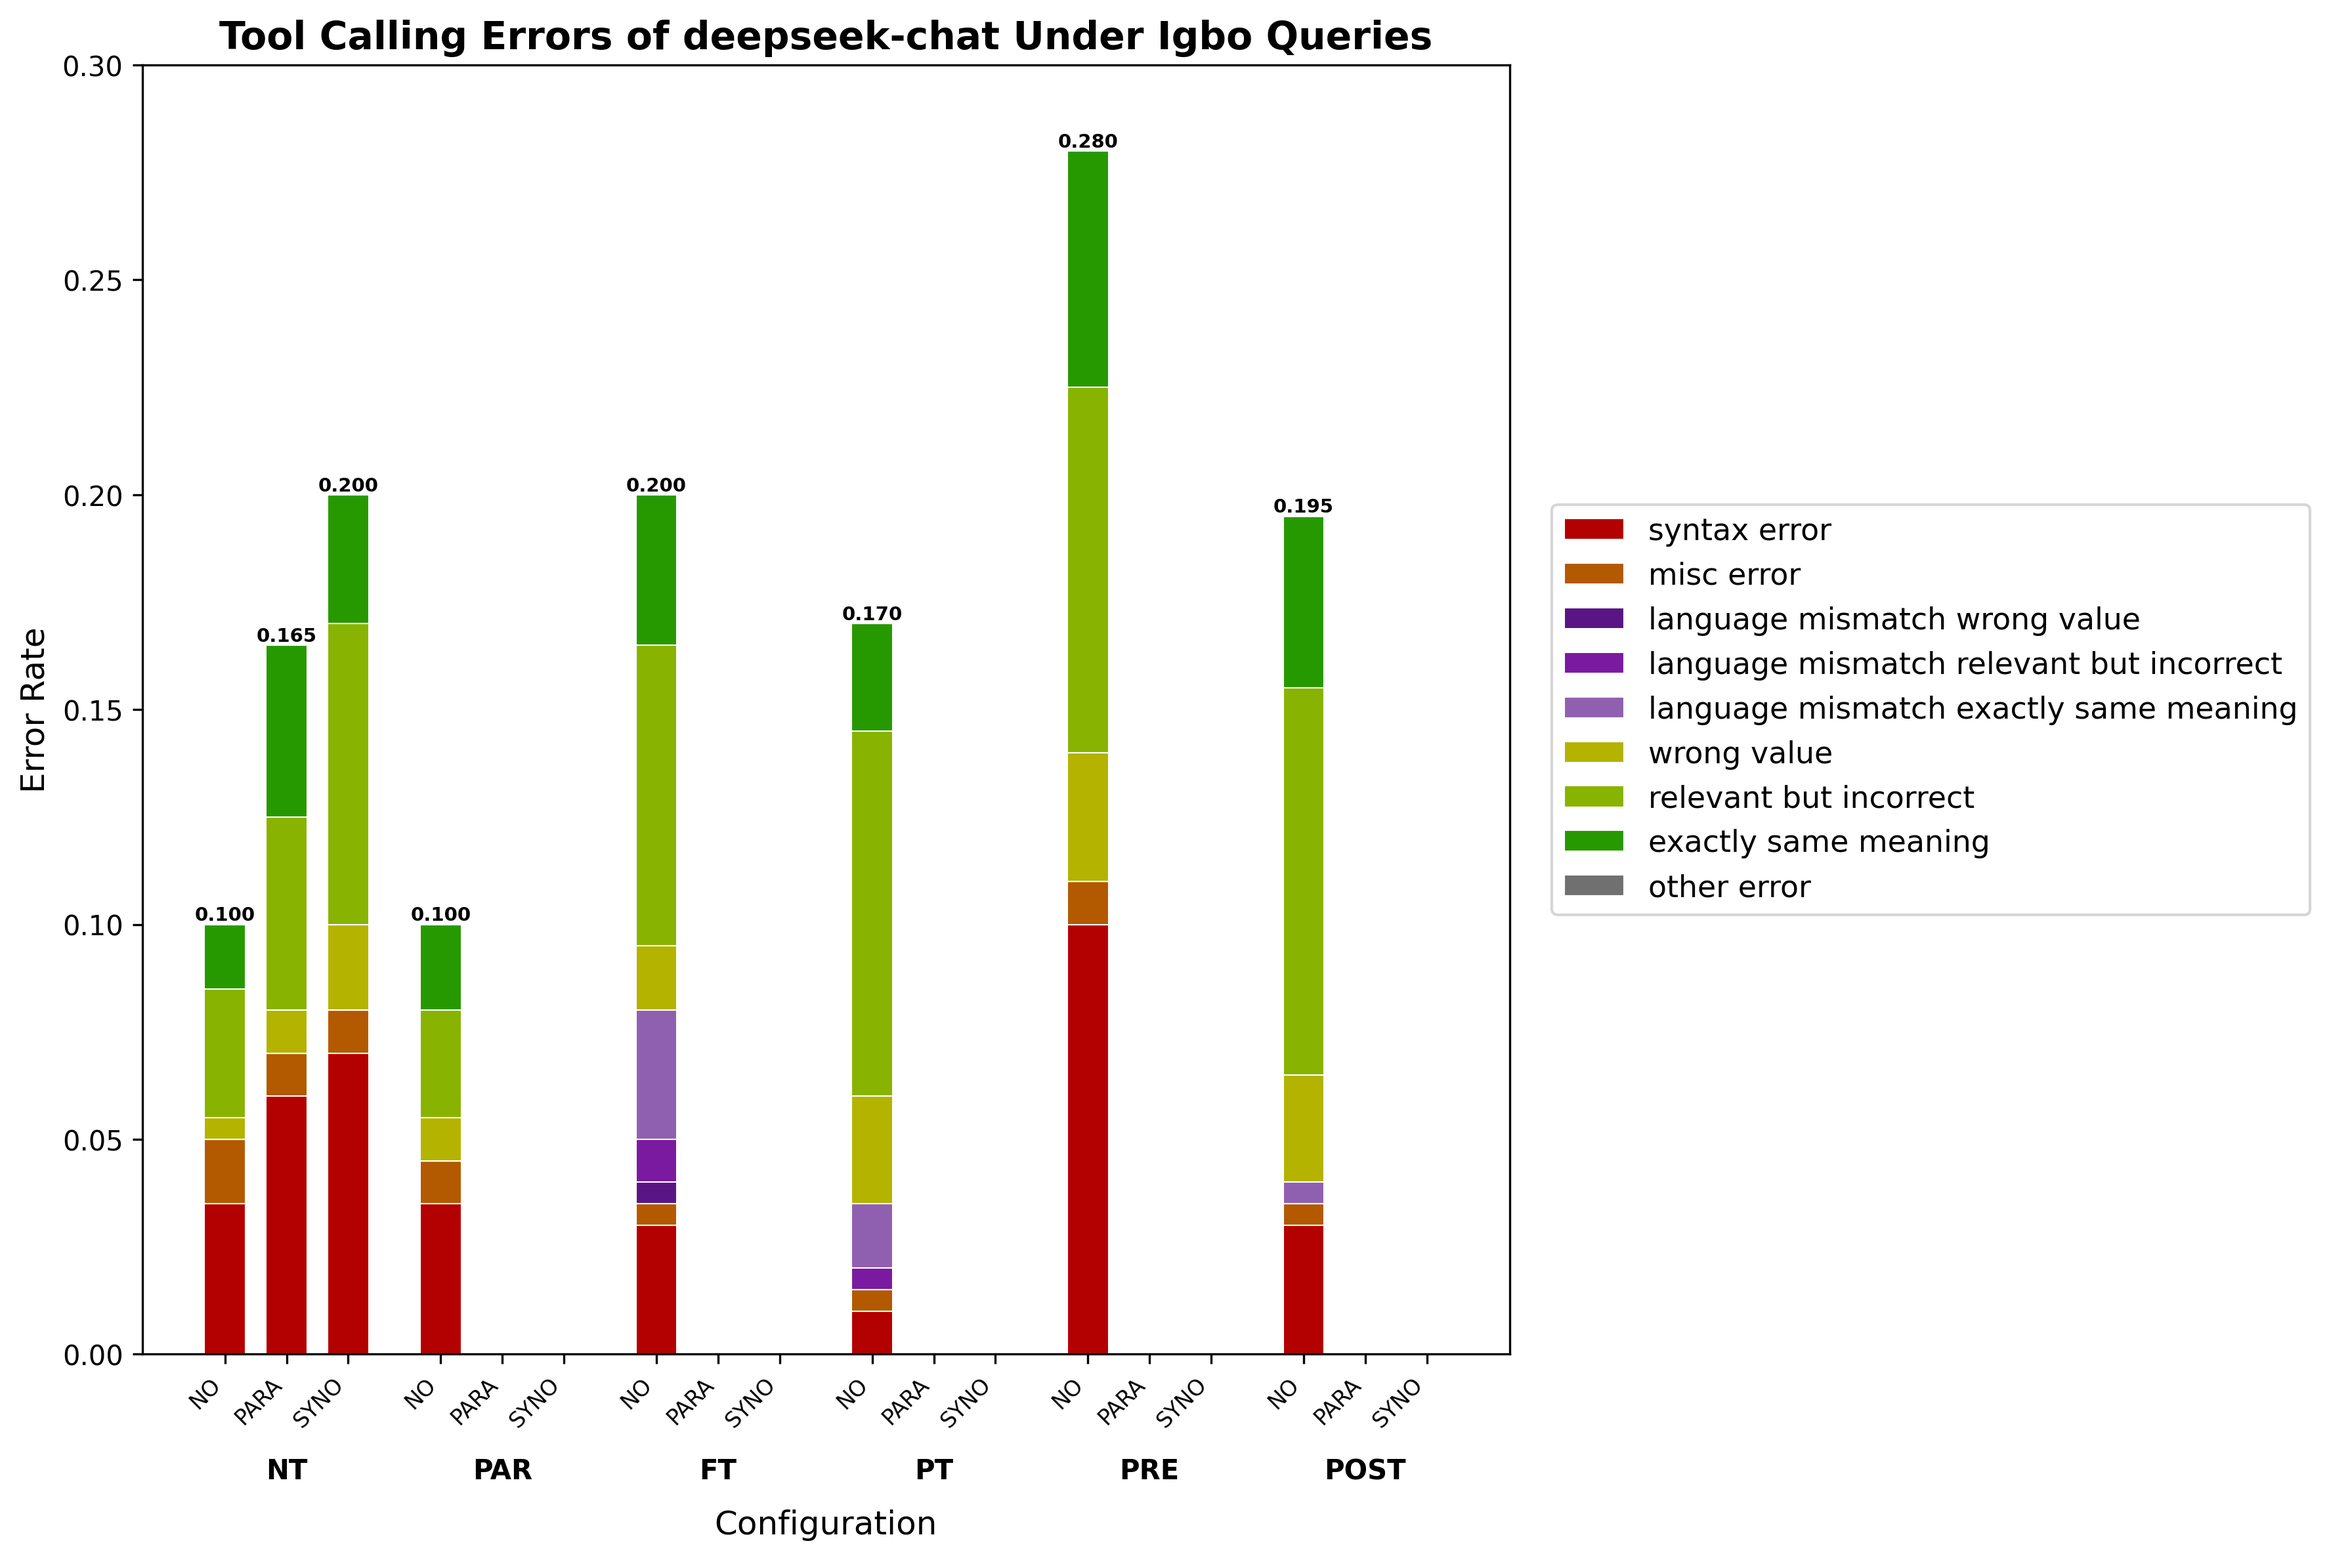
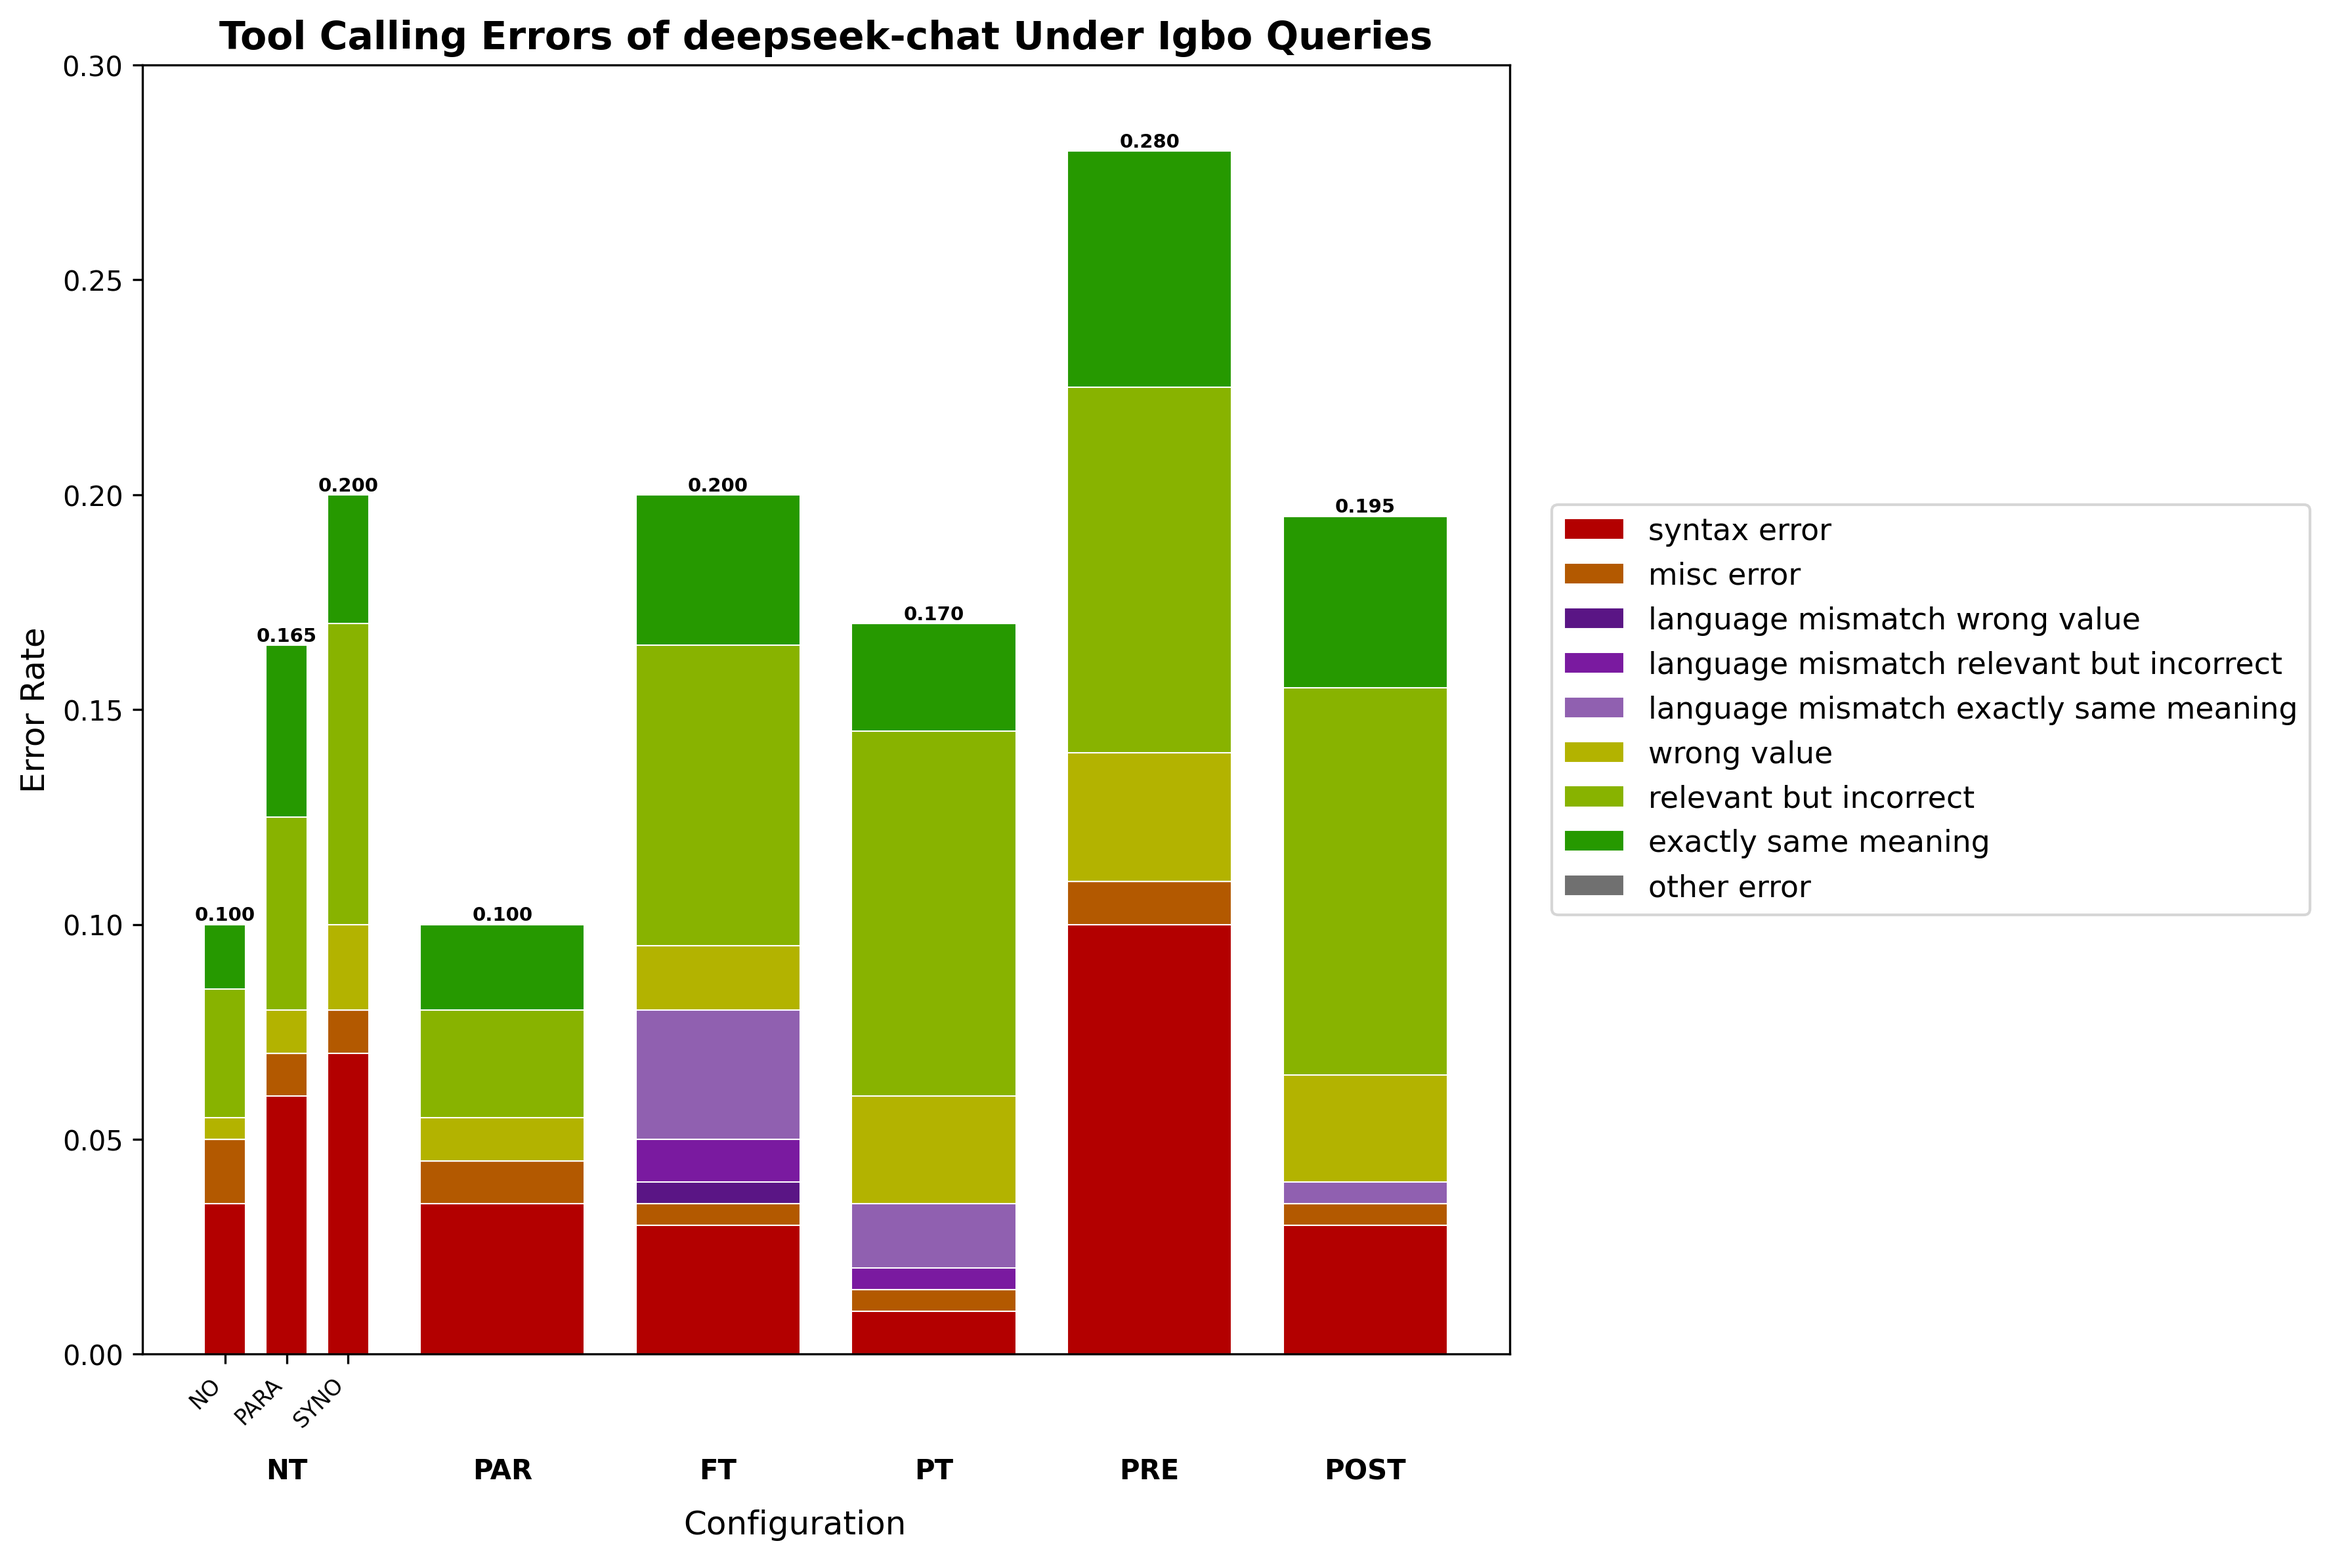
treat igbo specially for stacked bar

diff --git a/tool_generate_stacked_bar.py b/tool_generate_stacked_bar.py
@@ -41,6 +41,7 @@ def generate_stacked_bar_chart(model_name: str, output_dir: str, result_dir: str
     bar_labels = []
     bar_data = []
     bar_positions = []
+    bar_widths = []  # Track custom widths for each bar
     pos = 0
     bar_spacing = 0.6  # Spacing between bars within a group
     group_spacing = 0.3  # Extra space between translate mode groups
@@ -52,13 +53,30 @@ def generate_stacked_bar_chart(model_name: str, output_dir: str, result_dir: str
         "SYNONYM": "SYNO"
     }
 
+    # Special handling for Igbo: only NT has all three noise modes, others only have NO_NOISE
+    is_igbo = (language == "Igbo")
+
     for tm in translate_modes:
-        for nm in noise_modes:
-            bar_labels.append(noise_mode_abbrev[nm])  # Use abbreviated noise mode name
-            category_counts = data_dict[tm][nm]
+        if is_igbo and tm != "NT":
+            # For Igbo non-NT modes: single wide bar spanning the width of three bars
+            bar_labels.append("NO")  # Show "NO" sub-label
+            category_counts = data_dict[tm]["NO_NOISE"]
             bar_data.append(category_counts)
-            bar_positions.append(pos)
-            pos += bar_spacing  # Use smaller spacing between bars
+            # Calculate center position for a bar that spans three bar widths
+            bar_center = pos + bar_spacing
+            bar_positions.append(bar_center)
+            # Width spans three bars and two gaps: 3 * 0.4 + 2 * (0.6 - 0.4) = 1.6
+            bar_widths.append(1.6)
+            pos += 3 * bar_spacing  # Move position as if we placed three bars
+        else:
+            # Normal case: three bars for three noise modes
+            for nm in noise_modes:
+                bar_labels.append(noise_mode_abbrev[nm])  # Use abbreviated noise mode name
+                category_counts = data_dict[tm][nm]
+                bar_data.append(category_counts)
+                bar_positions.append(pos)
+                bar_widths.append(0.4)  # Standard bar width
+                pos += bar_spacing  # Use smaller spacing between bars
         pos += group_spacing  # Add extra space after each translate mode group
 
     title = f"Tool Calling Errors of {model_name} Under {language} Queries"
@@ -94,10 +112,9 @@ def generate_stacked_bar_chart(model_name: str, output_dir: str, result_dir: str
         values = df_rate[category].values
         # Convert category name to readable format for legend
         readable_label = pascal_to_readable(category)
-        # Use half width (0.4) for better spacing
-        bar_width = 0.4
+        # Use custom bar widths for each bar
         ax.bar(x_positions, values, label=readable_label, bottom=bottom,
-               color=category_colors[category], edgecolor='white', linewidth=0.5, width=bar_width)
+               color=category_colors[category], edgecolor='white', linewidth=0.5, width=bar_widths)
         bottom += values
 
     # Calculate totals for each bar (as rates)
@@ -131,9 +148,16 @@ def generate_stacked_bar_chart(model_name: str, output_dir: str, result_dir: str
     ax.set_xticklabels(bar_labels, rotation=45, ha='right', fontsize=8)
 
     # Add translate mode group labels as a second row below noise mode labels
+    pos_tracker = 0
     for i, tm in enumerate(translate_modes):
-        # Calculate the center position of each translate mode group
-        group_center = i * (len(noise_modes) * bar_spacing + group_spacing) + (len(noise_modes) - 1) * bar_spacing / 2
+        if is_igbo and tm != "NT":
+            # For Igbo non-NT modes: center is at the single wide bar
+            group_center = pos_tracker + bar_spacing
+            pos_tracker += 3 * bar_spacing + group_spacing
+        else:
+            # Normal case: center of three bars
+            group_center = pos_tracker + (len(noise_modes) - 1) * bar_spacing / 2
+            pos_tracker += len(noise_modes) * bar_spacing + group_spacing
         ax.text(group_center, -max_height * 0.08, tm,
                ha='center', va='top', fontsize=10, fontweight='bold')
 
